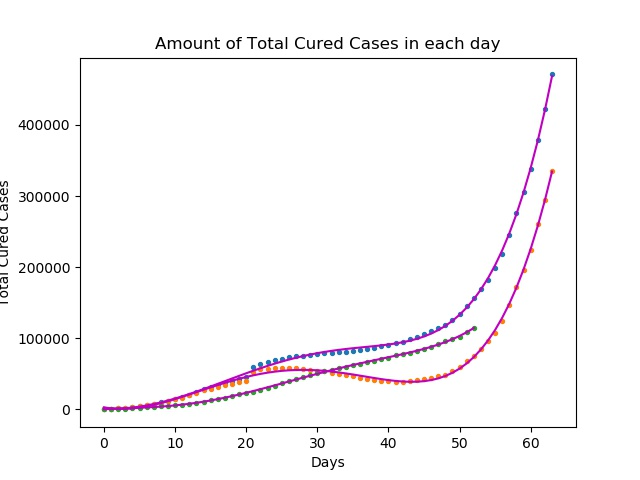
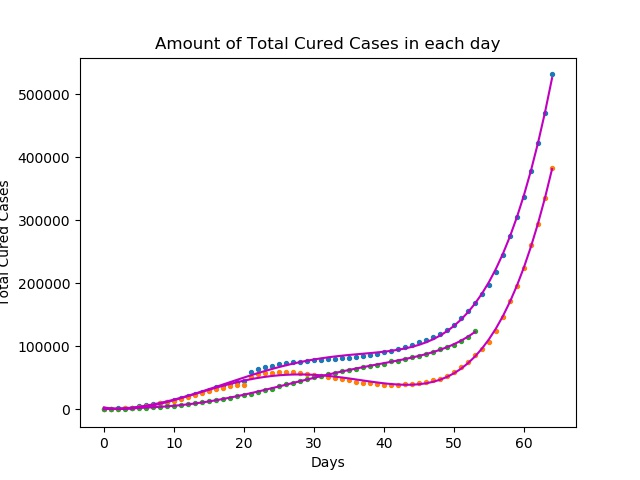
update 27/03/2020

diff --git a/README.md b/README.md
@@ -15,31 +15,34 @@ COVID-19, the disease that can result from the coronavirus worldwide new pandemi
 Our predictions for 26/03/2020 : 
 
 The predictions for Total Cases today is:
-521552
+585682
 
 The predictions for Total Active Cases today is:
-379021
+431739
 
 The predictions for Total Cured Cases today is:
-121254
+131516
 
 The predictions for Total Deaths  today is:
-23992
+27113
 
 The predictions for Total Critical Cases  today is:
-17778
+22463
 
 
 
-
+```
 ![Total Cases](https://github.com/Manai-Hamza/COVID-19-Doomsday-Predictions/blob/master/graphs/Total%20Cases.jpg?raw=true)
+```
+
 
 
 
 
 |    Date    | Predicted Total Cases | Real Total Cases | Predicted Total Recovered | Real Total Recovered | Predicted  Total Deaths | Real Total Deaths | Predicted Active Cases | Real Total Cases | Predicted  Critical Cases | Real Critical Cases |
 | :--------: | :-------------------: | :--------------: | :-----------------------: | :------------------: | :---------------------: | :---------------: | :--------------------: | :--------------: | :-----------------------: | :-----------------: |
-| 26/03/2020 |        521552         |        ??        |          121254           |          ??          |          23992          |        ??         |         379021         |        ??        |           17778           |         ??          |
+| 27/03/2020 |        585682         |        ??        |          131516           |          ??          |          27113          |        ??         |         431739         |        ??        |           22463           |         ??          |
+| 26/03/2020 |        521552         |      531865      |          121254           |        123942        |          23992          |       24073       |         379021         |      383850      |           17778           |        19357        |
 | 25/03/2020 |        466883         |      471035      |          114684           |        114228        |          21202          |       21284       |         333371         |      335523      |           15664           |        14792        |
 | 24/03/2020 |        419859         |      422574      |          108171           |        108879        |          18646          |       18894       |         292093         |      294801      |           14062           |        13095        |
 | 23/03/2020 |        374118         |      378860      |          104630           |        102069        |          16485          |       16514       |         252519         |      260277      |           12252           |        12062        |
